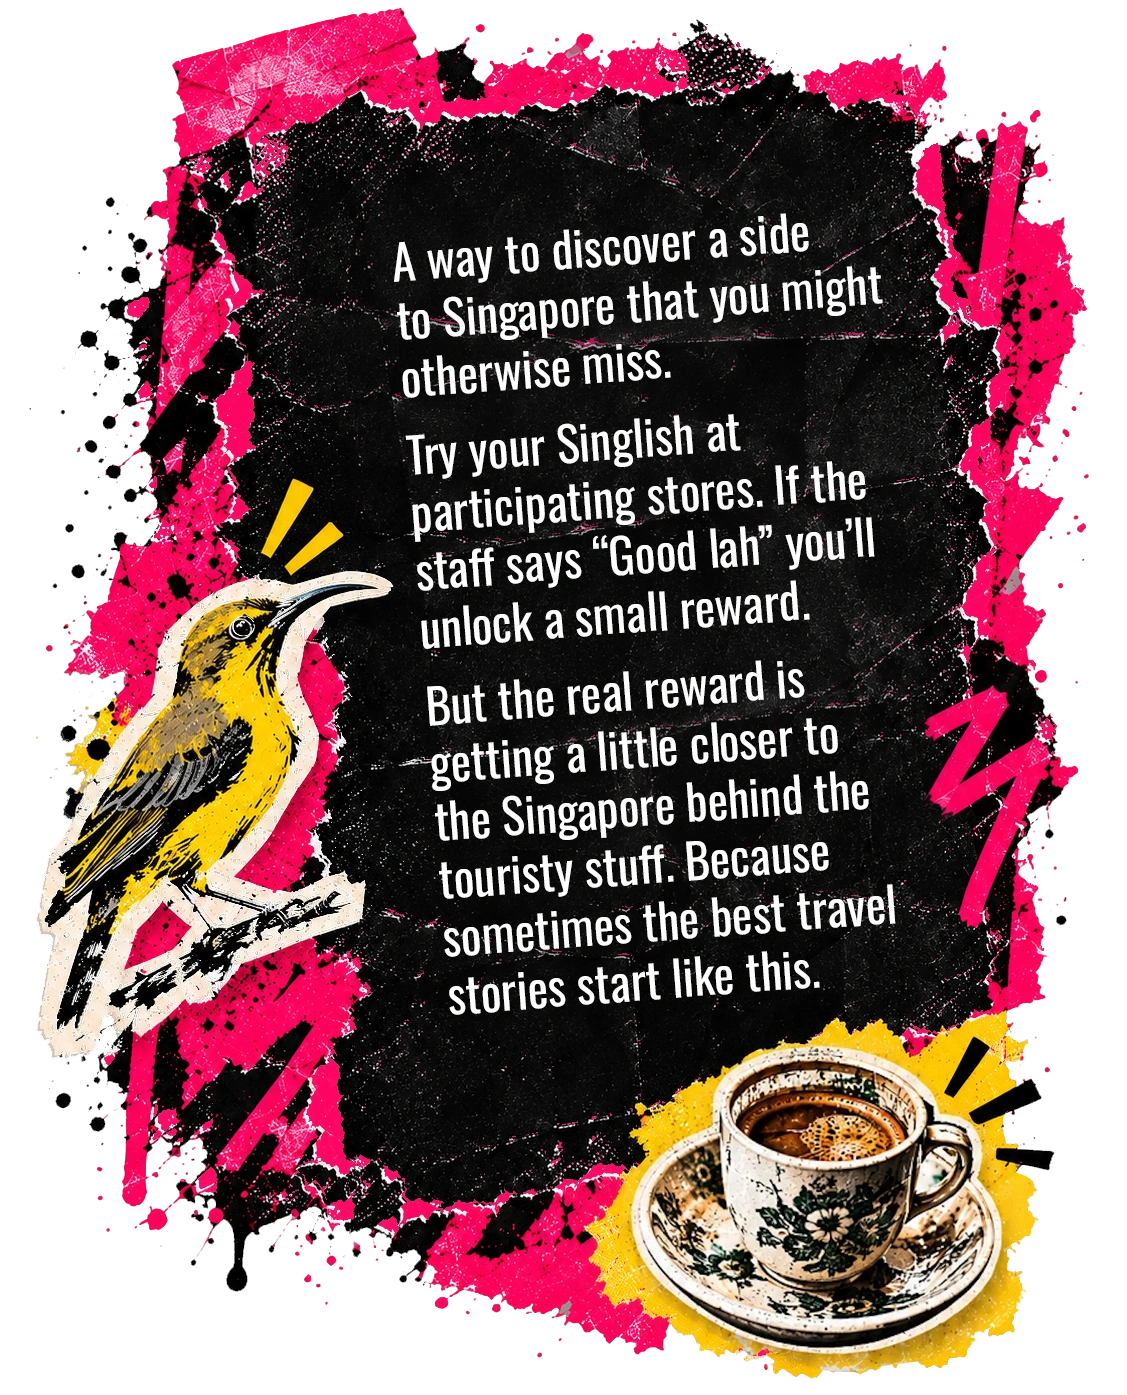
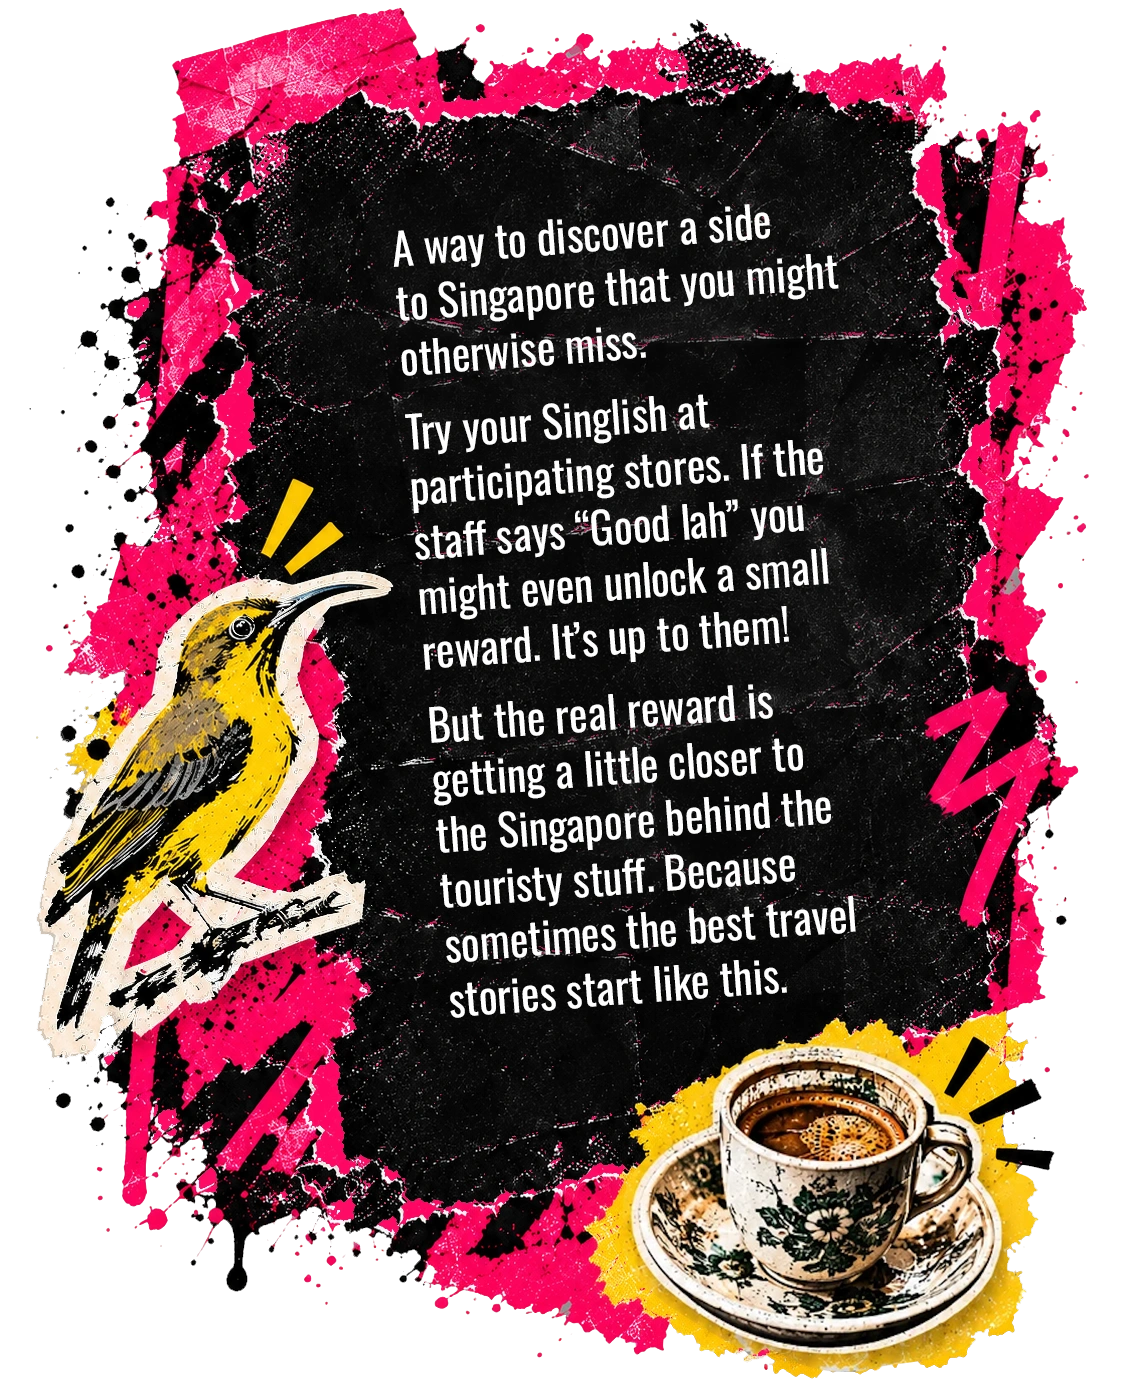
Add files via upload

Changed region(s): [[0.3416, 0.1541, 0.8075, 0.7398]]

diff --git a/index.html b/index.html
@@ -1428,7 +1428,7 @@ html, body, input, button, textarea, select{
     <img src='logo.png' alt='can or not' class='about-logo' />
 
     <div class='store-modal-sub'>
-      <p>A way to discover a side of Singapore you might otherwise miss. Try your Singlish at participating stores. If the staff says good lah, you’ll unlock a small reward.</p>
+      <p>A way to discover a side of Singapore you might otherwise miss. Try your Singlish at participating stores. If the staff says “Good lah” you might even get a little reward. It's up to them!</p>
 
       <p>But the real reward is getting a little closer to the Singapore behind the touristy stuff. Because sometimes the best travel stories start like this.</p>
     </div>
